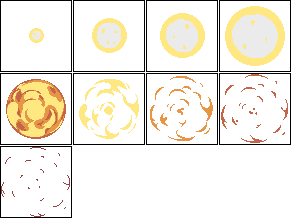
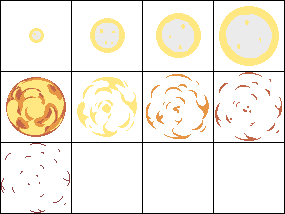
simplify explosion spritesheet and prevent rendering at fraction of pixel

diff --git a/app/lib/entity/explosion.js b/app/lib/entity/explosion.js
@@ -28,18 +28,14 @@ function createView(radius) {
   if (!Explosion.spriteSheet) {
     Explosion.spriteSheet = new createjs.SpriteSheet({
       images: [loader.get('explosion')],
-      frames: [
-        // x, y, width, height, imageIndex*, regX*, regY*
-        [1,   1,   70, 70, 0, 35, 35], // 0
-        [74,  1,   70, 70, 0, 35, 35], // 1
-        [147, 1,   70, 70, 0, 35, 35], // 2
-        [220, 1,   70, 70, 0, 35, 35], // 3
-        [1,   74,  70, 70, 0, 35, 35], // 4
-        [74,  74,  70, 70, 0, 35, 35], // 5
-        [147, 74,  70, 70, 0, 35, 35], // 6
-        [220, 74,  70, 70, 0, 35, 35], // 7
-        [1,   147, 70, 70, 0, 35, 35]  // 8
-      ],
+      frames: {
+        width: 70,
+        height: 70,
+        regX: 35,
+        regY: 35,
+        spacing: 1,
+        margin: 1
+      },
       animations: {
         explode: {
           frames: [
@@ -84,8 +80,8 @@ var p = Explosion.prototype;
 
 p.update = function(tickEvent) {
   // place shape at body's position
-  this.view.x = this.body.position[0];
-  this.view.y = this.body.position[1];
+  this.view.x = Math.floor(this.body.position[0]);
+  this.view.y = Math.floor(this.body.position[1]);
 
   if (this.timeLeft <= 0) {
     this.inactive = true;
